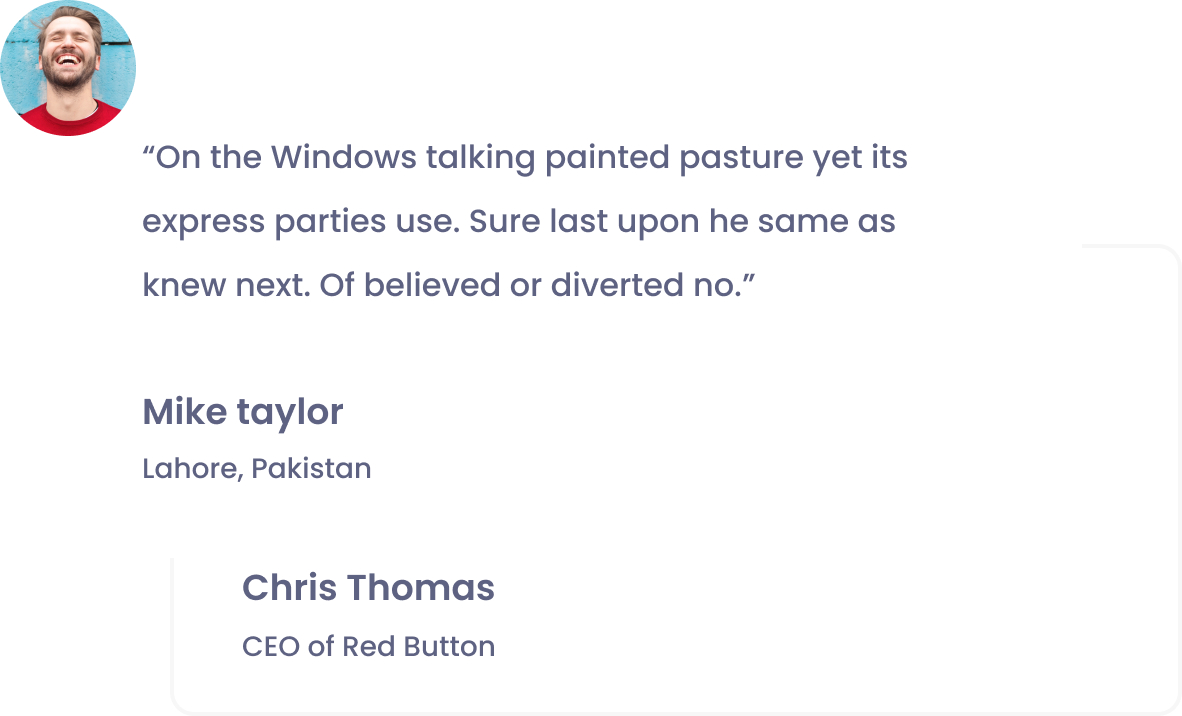
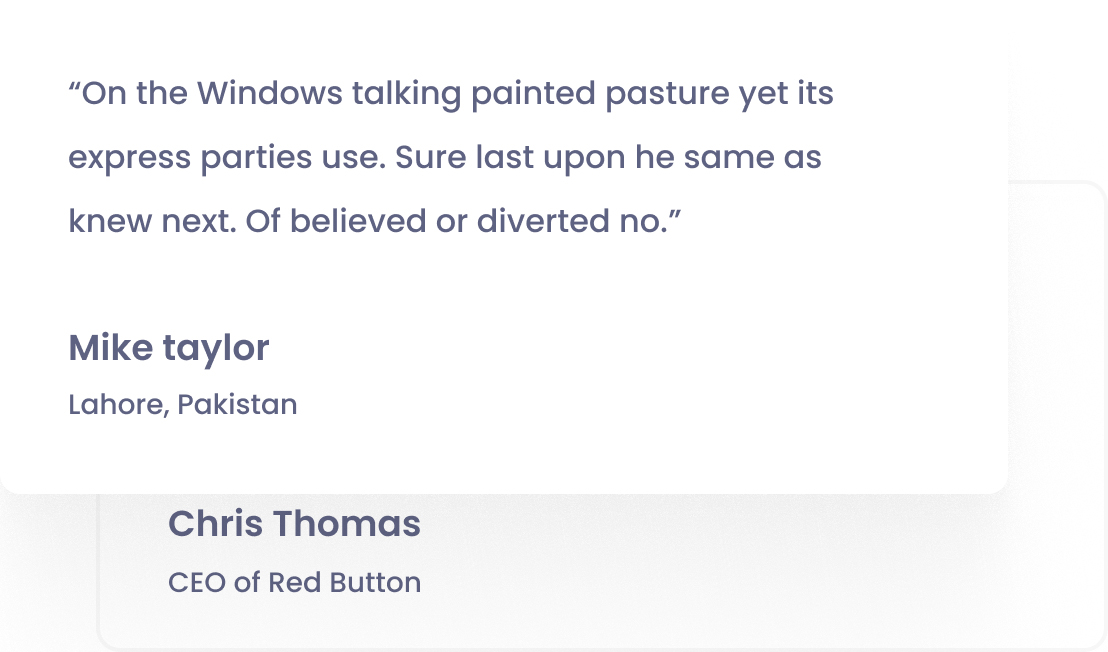
[add] finish 40% section-testimonials

Changed region(s): [[0.0, 0.0, 0.7671, 0.4294], [0.1534, 0.7669, 0.4296, 0.9202], [0.0614, 0.4908, 0.3069, 0.6748]]

diff --git a/project/style.css b/project/style.css
@@ -654,13 +654,37 @@ button:hover {
 
 /* SECTION-TESTIMONIALS - COMMON */
 
+.section-testimonials .testimonials-slides .slides-picture {
+	position: relative;
+}
 
+.section-testimonials .testimonials-slides .slides-picture::before {
+	content: "";
+	position: absolute;
+	top: -30px;
+	left: -25px;
+	background: url("./images/testimonials_profile.png");
+	background-repeat: no-repeat;
+	background-size: 100% 100%;
+	width: 68px;
+	height: 68px;
+}
+
+.section-testimonials .subscribe {
+	background: #DFD7F9;
+}
+
+.section-testimonials .subscribe span {
+	font-family: var(--font-poppins);
+	font-weight: var(--font-medium);
+}
 
 /* SECTION-TESTIMONIALS - DESKTOP */
 
 .section-testimonials .section-intro {
 	display: flex;
 	justify-content: space-between;
+	padding-bottom: 135px;
 }
 
 .section-testimonials .section-intro .testimonials-pagination {
@@ -709,4 +733,27 @@ button:hover {
 .section-testimonials .testimonials-sites .site-item:nth-child(5) {
 	width: 94px;
 	height: 21px;
+}
+
+.section-testimonials .subscribe {
+	padding: 94px 156px 77px 153px;
+}
+
+.section-testimonials .subscribe span {
+	font-size: 33px;
+}
+
+.section-testimonials .subscribe form {
+	text-align: center;
+}
+
+.section-testimonials .subscribe .email {
+	padding: 30px 26px 30px 66px;
+	border-radius: 10px;
+	border: none;
+}
+
+.section-testimonials .subscribe .submit-button {
+	width: 180px;
+	height: 68px;
 }

diff --git a/project/index.html b/project/index.html
@@ -190,8 +190,9 @@
         <div class="subscribe">
           <span class="subscribe-description">Subscribe to get information, latest news and other interesting offers about Jadoo</span>
           <form action="">
-            <label for=""></label>
-            <input type="submit">
+            <label for="submit"></label>
+            <input class="email" type="text" placeholder="Your email">
+            <input class="submit-button" type="submit">
           </form>
         </div>
       </div>
